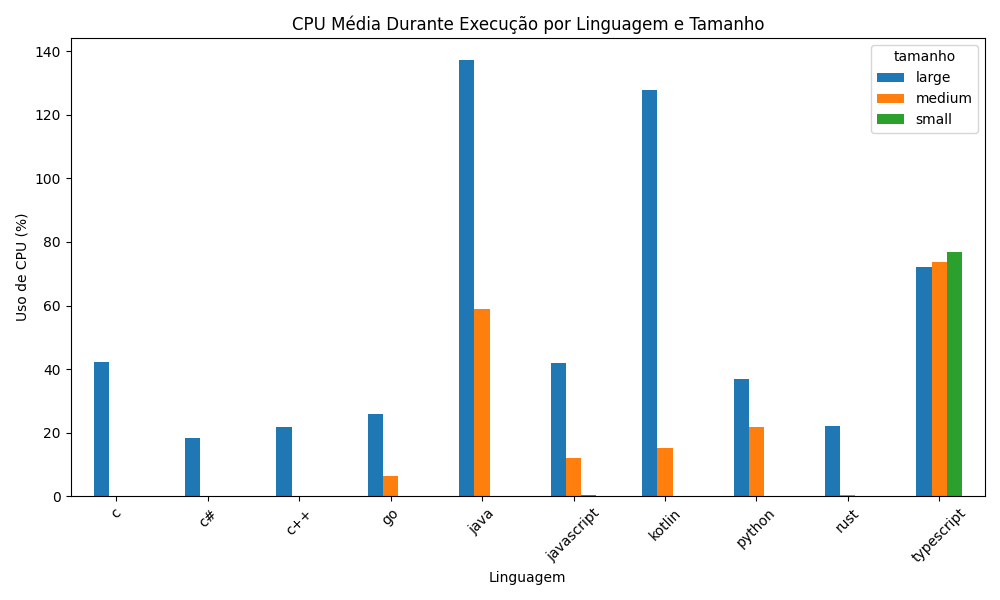
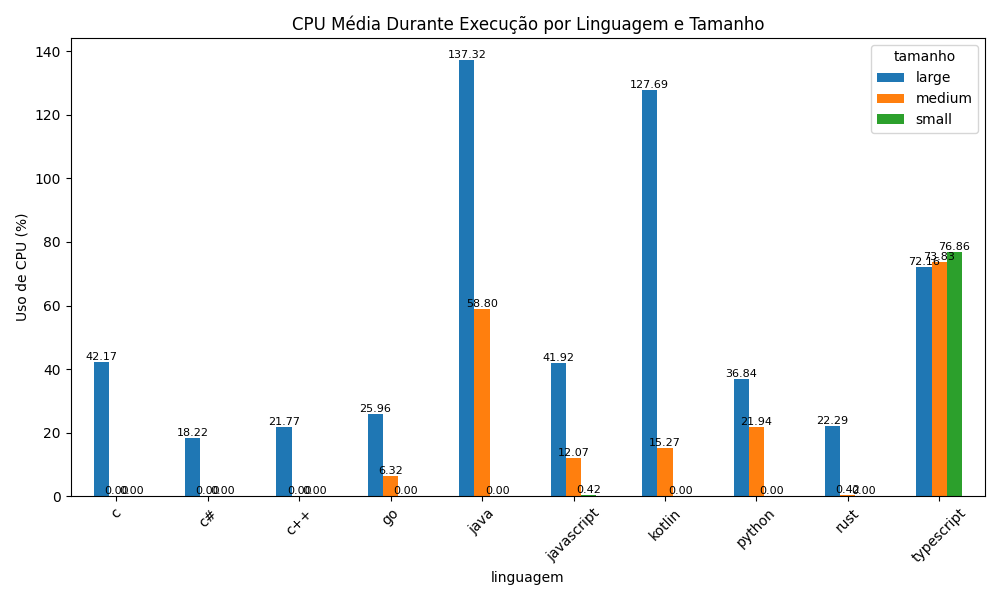
Implement code changes to enhance functionality and improve performance

diff --git a/thesis/bi.py b/thesis/bi.py
@@ -1,52 +1,62 @@
 import pandas as pd
 import matplotlib.pyplot as plt
+import os
+
+# Criar pasta de saída
+os.makedirs("./bi", exist_ok=True)
 
 # Carrega o JSON
 df = pd.read_json("./resultados/metricas.json")
 
-# Filtra entradas com tempo > 0
+# Filtra apenas entradas com tempo válido
 df = df[df["tempo_s"] > 0]
 
-# Agrupamento por linguagem e tamanho
+# Função para desenhar gráfico de barras com valores
+def plot_with_labels(data, title, ylabel, filename):
+    ax = data.plot(kind="bar", figsize=(10, 6), title=title)
+    plt.ylabel(ylabel)
+    plt.xlabel(data.index.name)
+    plt.xticks(rotation=45)
+    for c in ax.containers:
+        ax.bar_label(c, fmt="%.2f", fontsize=8)
+    plt.tight_layout()
+    plt.savefig(f"./bi/{filename}.png")
+    plt.clf()
+
+# Grouping
 grouped = df.groupby(["linguagem", "tamanho"])
 
 # Tempo médio por linguagem e tamanho
 tempo_medio = grouped["tempo_s"].mean().unstack()
-tempo_medio.plot(kind="bar", figsize=(10, 6), title="Tempo Médio (s) por Linguagem e Tamanho")
-plt.ylabel("Tempo (s)")
-plt.xlabel("Linguagem")
-plt.xticks(rotation=45)
-plt.tight_layout()
-plt.savefig("./bi/tempo_medio_por_tamanho.png")
-plt.clf()
+tempo_medio.to_csv("./bi/tabela_tempo_medio.csv")
+plot_with_labels(tempo_medio, "Tempo Médio (s) por Linguagem e Tamanho", "Tempo (s)", "tempo_medio_por_tamanho")
 
-# CPU média por linguagem e tamanho
+# CPU média durante execução
 cpu_medio = grouped["cpu_avg_during"].mean().unstack()
-cpu_medio.plot(kind="bar", figsize=(10, 6), title="CPU Média Durante Execução por Linguagem e Tamanho")
-plt.ylabel("Uso de CPU (%)")
-plt.xlabel("Linguagem")
-plt.xticks(rotation=45)
-plt.tight_layout()
-plt.savefig("./bi/cpu_medio_por_tamanho.png")
-plt.clf()
+cpu_medio.to_csv("./bi/tabela_cpu_medio.csv")
+plot_with_labels(cpu_medio, "CPU Média Durante Execução por Linguagem e Tamanho", "Uso de CPU (%)", "cpu_medio_por_tamanho")
 
-# RAM média por linguagem e tamanho
+# RAM média durante execução
 ram_medio = grouped["ram_avg_during_mb"].mean().unstack()
-ram_medio.plot(kind="bar", figsize=(10, 6), title="RAM Média Durante Execução por Linguagem e Tamanho")
-plt.ylabel("RAM (MB)")
-plt.xlabel("Linguagem")
-plt.xticks(rotation=45)
-plt.tight_layout()
-plt.savefig("./bi/ram_medio_por_tamanho.png")
-plt.clf()
+ram_medio.to_csv("./bi/tabela_ram_medio.csv")
+plot_with_labels(ram_medio, "RAM Média Durante Execução por Linguagem e Tamanho", "RAM (MB)", "ram_medio_por_tamanho")
 
-# Linhas de código por linguagem
-linhas_por_linguagem = df.groupby("linguagem")["linhas_codigo"].mean().sort_values()
-linhas_por_linguagem.plot(kind="bar", figsize=(10, 6), title="Média de Linhas de Código por Linguagem")
-plt.ylabel("Linhas de Código")
-plt.xlabel("Linguagem")
-plt.xticks(rotation=45)
-plt.tight_layout()
-plt.savefig("./bi/linhas_codigo_por_linguagem.png")
-plt.clf()
+# Linhas de código por linguagem (média)
+linhas_codigo = df.groupby("linguagem")["linhas_codigo"].mean().sort_values()
+linhas_codigo.to_csv("./bi/tabela_linhas_codigo.csv")
+plot_with_labels(linhas_codigo.to_frame(), "Média de Linhas de Código por Linguagem", "Linhas", "linhas_codigo_por_linguagem")
 
+# Tempo médio por classe polinomial
+tempo_classe = df.groupby("classe")["tempo_s"].mean().sort_values()
+tempo_classe.to_csv("./bi/tabela_tempo_por_classe.csv")
+plot_with_labels(tempo_classe.to_frame(), "Tempo Médio por Classe de Complexidade", "Tempo (s)", "tempo_medio_por_classe")
+
+# Linhas de código por linguagem e classe polinomial (média)
+linhas_codigo_linguagem_classe = df.groupby(["linguagem", "classe"])["linhas_codigo"].mean().unstack()
+linhas_codigo_linguagem_classe.to_csv("./bi/tabela_linhas_codigo_linguagem_classe.csv")
+plot_with_labels(
+    linhas_codigo_linguagem_classe,
+    "Média de Linhas de Código por Linguagem e Classe Polinomial",
+    "Linhas de Código",
+    "linhas_codigo_por_linguagem_e_classe"
+)
